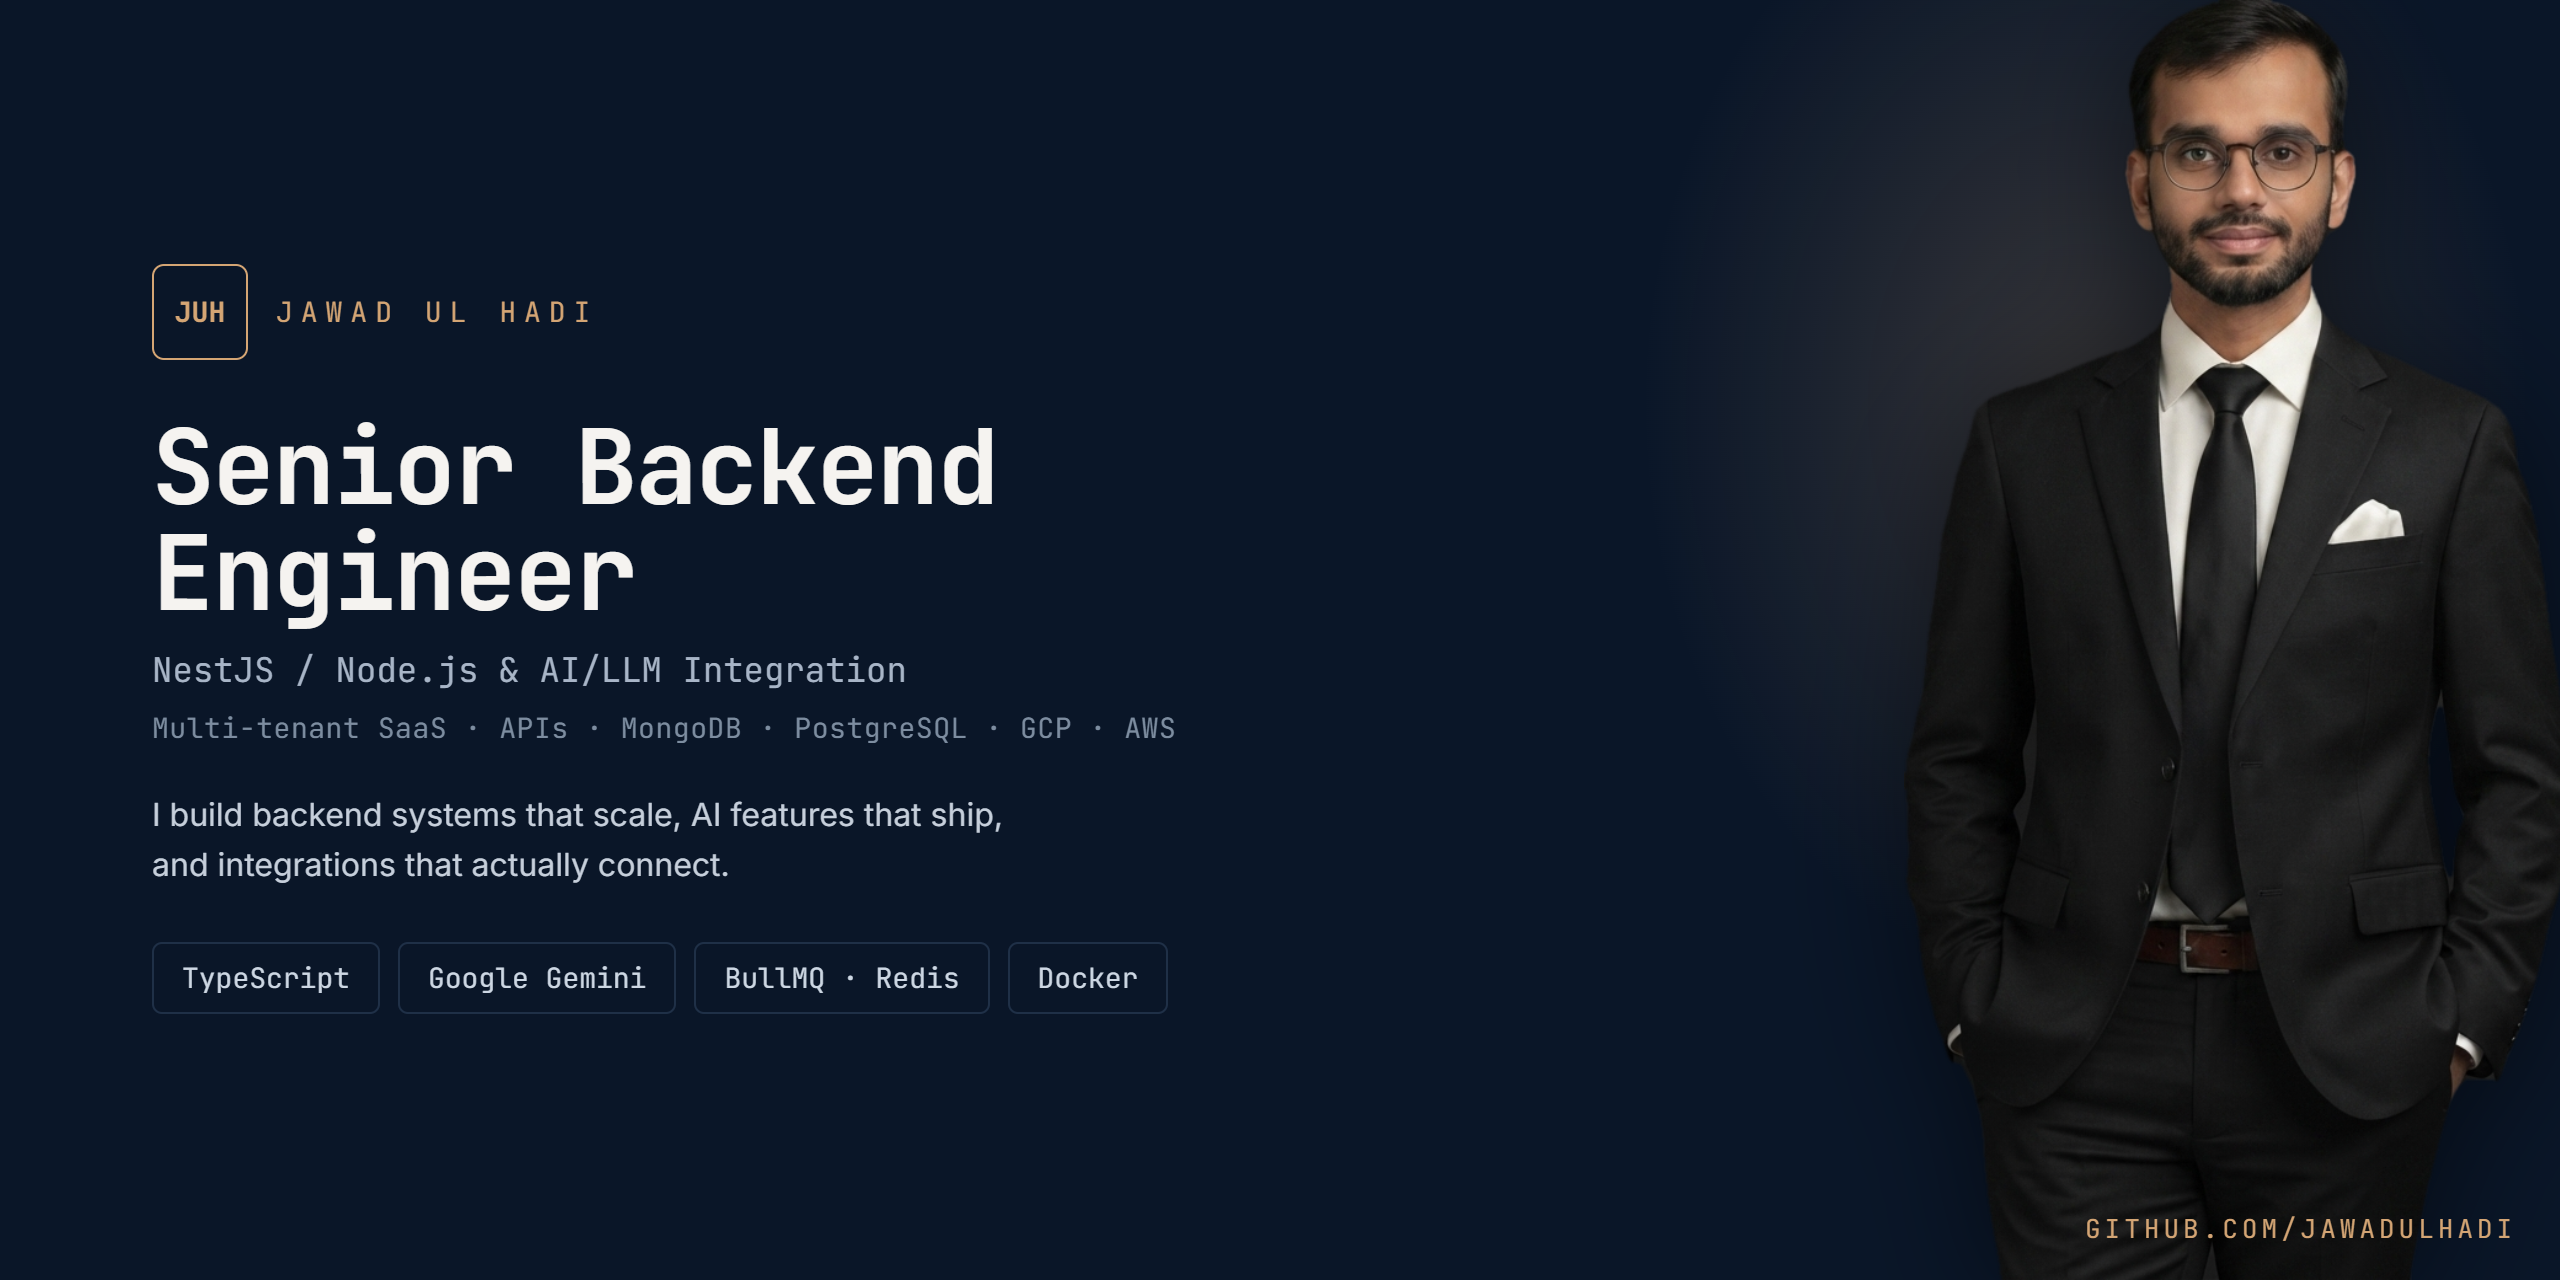
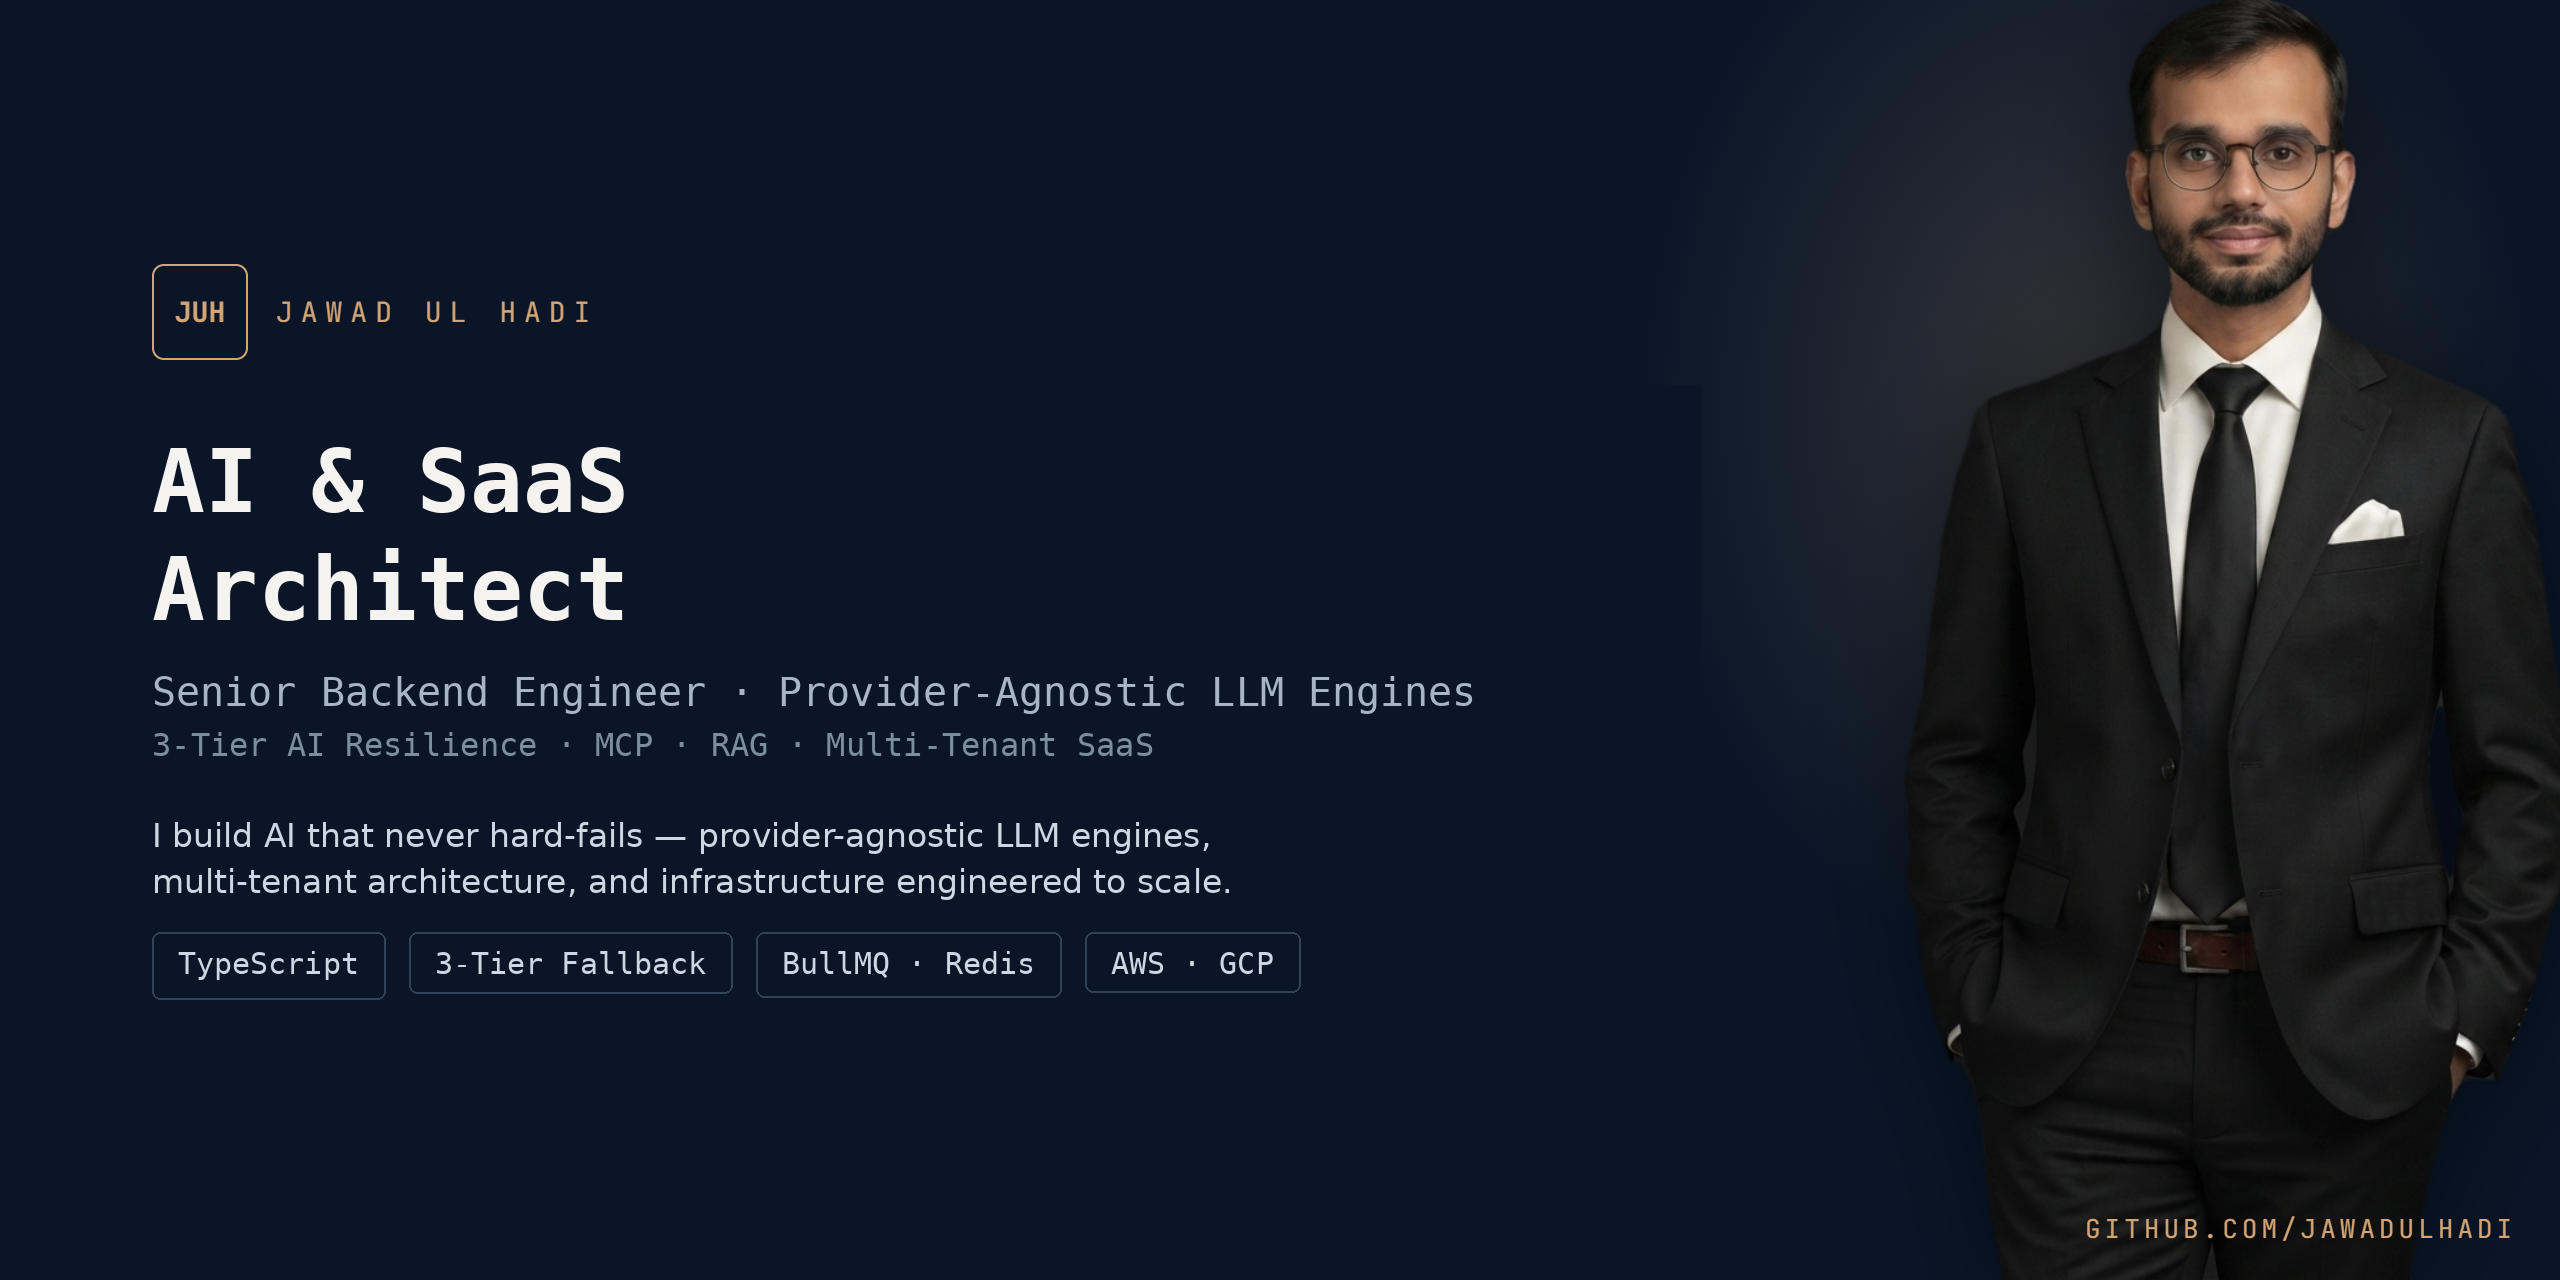
Update README.md for Jawad_Ul_Hadi's GitHub ProfileUpdate README.md for Jawad_Ul_Hadi's GitHub Profile``` Update README.md for Jawad_Ul_Hadi's GitHub Profile  - Enhanced content for better clarity and engagement. - Added relevant project descriptors and skills. - Authored by: Jawad ul Hadi ``` ```ma

Changed region(s): [[0.0625, 0.3125, 0.5625, 0.5938], [0.0625, 0.625, 0.5, 0.7812]]

diff --git a/README.md b/README.md
@@ -6,7 +6,7 @@
   <picture>
     <source media="(prefers-color-scheme: dark)" srcset="./banners/repo-banner-dark.png">
     <source media="(prefers-color-scheme: light)" srcset="./banners/repo-banner-light.png">
-    <img src="./banners/repo-banner-light.png" alt="Jawad Ul Hadi — Senior Backend Engineer" width="100%" />
+    <img src="./banners/repo-banner-light.png" alt="Jawad Ul Hadi — AI & SaaS Architect" width="100%" />
   </picture>
 </p>
 
@@ -29,7 +29,7 @@
 
 ## About
 
-I build backend systems that scale, AI features that ship, and integrations that connect. With over 7 years of software engineering experience, I specialize in serverless architectures, high-performance databases, and multi-tenant SaaS platforms with strict per-tenant isolation, asynchronous processing, and AI integrations across multiple agents (OpenAI, Gemini, Anthropic) with deterministic rule-based fallbacks.
+I architect resilient, multi-tenant SaaS platforms where AI works as a reliable value multiplier, not a liability. My signature build is a provider-agnostic LLM engine — OpenAI, Gemini, and Anthropic behind one abstraction — backed by a 3-tier resilience ladder (Retry → RAG → Deterministic) that eliminates user-facing AI failures and cut integration surface area by 60%. On the data side, I've driven 90%+ p95 latency reductions on enterprise-scale HRMS and recruitment workloads.
 
 I translate business outcomes into technical implementations that drive growth.
 
@@ -37,45 +37,59 @@ I translate business outcomes into technical implementations that drive growth.
 
 ## Technology Stack
 
-### Languages & Frameworks
+**Backend & Languages**
 
-| Primary | Secondary | Utilities |
-| --------- | ----------- | ----------- |
-| TypeScript | Python | JavaScript |
-| Node.js | Django / DRF | FastAPI |
-| NestJS | | |
+![Node.js](https://img.shields.io/badge/Node.js-339933?style=flat-square&logo=nodedotjs&logoColor=white)
+![NestJS](https://img.shields.io/badge/NestJS-E0234E?style=flat-square&logo=nestjs&logoColor=white)
+![TypeScript](https://img.shields.io/badge/TypeScript-3178C6?style=flat-square&logo=typescript&logoColor=white)
+![Python](https://img.shields.io/badge/Python-3776AB?style=flat-square&logo=python&logoColor=white)
+![Django](https://img.shields.io/badge/Django-092E20?style=flat-square&logo=django&logoColor=white)
+![FastAPI](https://img.shields.io/badge/FastAPI-009688?style=flat-square&logo=fastapi&logoColor=white)
+![PHP](https://img.shields.io/badge/PHP-777BB4?style=flat-square&logo=php&logoColor=white)
+![Laravel](https://img.shields.io/badge/Laravel-FF2D20?style=flat-square&logo=laravel&logoColor=white)
 
-### Data & Search Solutions
+**AI & LLM Engineering**
 
-| Relational | NoSQL | Search & Cache |
-| ----------- | -------- | ----------- |
-| PostgreSQL | MongoDB / Mongoose | Redis |
-| MySQL | | MeiliSearch |
+![OpenAI](https://img.shields.io/badge/OpenAI-412991?style=flat-square&logo=openai&logoColor=white)
+![Google Gemini](https://img.shields.io/badge/Google_Gemini-8E75B2?style=flat-square&logo=googlegemini&logoColor=white)
+![Anthropic Claude](https://img.shields.io/badge/Anthropic_Claude-D97757?style=flat-square&logo=anthropic&logoColor=white)
+![LangChain](https://img.shields.io/badge/LangChain-1C3C3C?style=flat-square&logo=langchain&logoColor=white)
+![MCP](https://img.shields.io/badge/Model_Context_Protocol-2D2D2D?style=flat-square)
+![RAG](https://img.shields.io/badge/RAG_Pipelines-4B5563?style=flat-square)
+![Agentic AI](https://img.shields.io/badge/Agentic_AI-4B5563?style=flat-square)
+![Structured Output](https://img.shields.io/badge/Structured_Output-4B5563?style=flat-square)
+![3-Tier Fallback](https://img.shields.io/badge/3--Tier_Fallback-B9843F?style=flat-square)
 
-### AI & Machine Learning
+**Data & Search**
 
-| Core Platform | Capabilities | Integration |
-| --------------- | -------------- | ------------- |
-| OpenAI SDK | Structured Output | RAG Systems |
-| Google Gemini | Multi-modal Analysis | Rule-based Fallbacks |
-| Anthropic Claude | Document Processing | Vision APIs |
+![PostgreSQL](https://img.shields.io/badge/PostgreSQL-4169E1?style=flat-square&logo=postgresql&logoColor=white)
+![MongoDB](https://img.shields.io/badge/MongoDB-47A248?style=flat-square&logo=mongodb&logoColor=white)
+![MySQL](https://img.shields.io/badge/MySQL-4479A1?style=flat-square&logo=mysql&logoColor=white)
+![Redis](https://img.shields.io/badge/Redis-DC382D?style=flat-square&logo=redis&logoColor=white)
+![MeiliSearch](https://img.shields.io/badge/MeiliSearch-FF5CAA?style=flat-square&logo=meilisearch&logoColor=white)
 
-### Infrastructure & DevOps
+**Infrastructure & DevOps**
 
-| Async Processing | Cloud Platforms | Containerization | CI/CD |
-| ----------------- | ----------------- | ----------------- | ------- |
-| BullMQ | Google Cloud Platform | Docker | GitHub Actions |
-| Redis Queues | AWS (Lambda, API Gateway) | | |
-| Webhooks | | | |
-| n8n Automation | | | |
+![AWS Lambda](https://img.shields.io/badge/AWS_Lambda-FF9900?style=flat-square&logo=awslambda&logoColor=white)
+![Google Cloud](https://img.shields.io/badge/Google_Cloud-4285F4?style=flat-square&logo=googlecloud&logoColor=white)
+![Docker](https://img.shields.io/badge/Docker-2496ED?style=flat-square&logo=docker&logoColor=white)
+![GitHub Actions](https://img.shields.io/badge/GitHub_Actions-2088FF?style=flat-square&logo=githubactions&logoColor=white)
+![BullMQ](https://img.shields.io/badge/BullMQ-DC382D?style=flat-square)
+![n8n](https://img.shields.io/badge/n8n-EA4B71?style=flat-square&logo=n8n&logoColor=white)
 
-### Integrations & Security
+**Integrations & Security**
 
-| Payments & Communication | Data & Storage | Authentication | Architecture |
-| -------------------------- | ----------------- | ----------------- | -------------- |
-| Stripe | GCS | JWT / OAuth 2.0 | RBAC |
-| Twilio | Microsoft Graph | Tenant Isolation | API Design |
-| Postal SMTP | | Session Management | Multi-tenant Systems |
+![Stripe](https://img.shields.io/badge/Stripe-635BFF?style=flat-square&logo=stripe&logoColor=white)
+![Twilio](https://img.shields.io/badge/Twilio-F22F46?style=flat-square&logo=twilio&logoColor=white)
+![Microsoft Graph](https://img.shields.io/badge/Microsoft_Graph-0078D4?style=flat-square&logo=microsoft&logoColor=white)
+![JWT / OAuth 2.0](https://img.shields.io/badge/JWT_%2F_OAuth_2.0-000000?style=flat-square&logo=jsonwebtokens&logoColor=white)
+![Tenant Isolation](https://img.shields.io/badge/RBAC_%2F_Tenant_Isolation-4B5563?style=flat-square)
+
+**AI-Assisted Development**
+
+![Cursor](https://img.shields.io/badge/Cursor-1A1A1A?style=flat-square)
+![GitHub Copilot](https://img.shields.io/badge/GitHub_Copilot-000000?style=flat-square&logo=githubcopilot&logoColor=white)
+![Claude Code](https://img.shields.io/badge/Claude_Code-D97757?style=flat-square&logo=anthropic&logoColor=white)
 
 ---
 
@@ -83,30 +97,30 @@ I translate business outcomes into technical implementations that drive growth.
 
 **Qeloma Suite** — Seven production-grade capability demos showcasing enterprise AI integrations. Enterprise work (Talentnix ATS, APAC HRMS, iAgility, AgileiBrains) is in private, IP-protected repos under NDA. Architecture diagrams, live walkthroughs, and references available upon request.
 
-| Project | Capability |
-| --------- | ----------- |
-| [Qeloma Verdict](https://github.com/Qeloma/qeloma-verdict) | Tamper-evident decision engine with cryptographic audit trails for EU AI Act compliance |
-| [Qeloma OCR](https://github.com/Qeloma/qeloma-ocr) | Client-side OCR with per-word confidence scoring (Tesseract.js / Gemini Vision / hybrid) |
-| [Qeloma Lens Studio](https://github.com/Qeloma/qeloma_lens_studio) | AI-powered document analysis — summarize, extract, compare (Gemini + rule-based fallbacks) |
-| [Qeloma Voice Studio](https://github.com/Qeloma/qeloma_voice_studio) | Real-time voice analyst grounded in custom document corpus (Gemini Live API) |
-| [Qeloma Shift](https://github.com/Qeloma/qeloma_shift) | Semantic change-intelligence engine — meaning-level diffing and materiality scoring |
-| [Qeloma Cover Studio](https://github.com/Qeloma/qeloma-cover-studio) | Browser-based LinkedIn banner designer with optional Gemini-assisted generation |
-| [Room Booking](https://github.com/Qeloma/qeloma_room_booking_app) | Resource-management platform — meeting room scheduling and booking automation |
+| Project                                                              | Capability                                                                                 |
+| -------------------------------------------------------------------- | ------------------------------------------------------------------------------------------ |
+| [Qeloma Verdict](https://github.com/Qeloma/qeloma-verdict)           | Tamper-evident decision engine with cryptographic audit trails for EU AI Act compliance    |
+| [Qeloma OCR](https://github.com/Qeloma/qeloma-ocr)                   | Client-side OCR with per-word confidence scoring (Tesseract.js / Gemini Vision / hybrid)   |
+| [Qeloma Lens Studio](https://github.com/Qeloma/qeloma_lens_studio)   | AI-powered document analysis — summarize, extract, compare (Gemini + rule-based fallbacks) |
+| [Qeloma Voice Studio](https://github.com/Qeloma/qeloma_voice_studio) | Real-time voice analyst grounded in custom document corpus (Gemini Live API)               |
+| [Qeloma Shift](https://github.com/Qeloma/qeloma_shift)               | Semantic change-intelligence engine — meaning-level diffing and materiality scoring        |
+| [Qeloma Cover Studio](https://github.com/Qeloma/qeloma-cover-studio) | Browser-based LinkedIn banner designer with optional Gemini-assisted generation            |
+| [Room Booking](https://github.com/Qeloma/qeloma_room_booking_app)    | Resource-management platform — meeting room scheduling and booking automation              |
 
 ---
 
 ## 🎓 Professional Certifications & Credentials
 
-**26+ Certifications** across cloud platforms, AI/ML, and enterprise systems:
+**30+ Certifications** across cloud platforms, AI/ML, and enterprise systems:
 
-| Provider | Certifications |
-| ---------- | --- |
-| **Google Cloud** | Generative AI Fundamentals, Cloud Computing Foundations |
-| **IBM SkillsBuild** | AI Fundamentals, Cloud Computing, Data Analytics, Cybersecurity Fundamentals, Web Development, IT Fundamentals, Professional Skills |
-| **LinkedIn Learning** | AI Orchestration (LangChain), Chatbot Development with OpenAI, Agentic AI Architecture, Advanced Python, Database Design |
-| **Specialized** | Certified Django Developer (e-smartdata.org, 2025) |
+| Provider              | Certifications                                                                                                                      |
+| --------------------- | ----------------------------------------------------------------------------------------------------------------------------------- |
+| **Google Cloud**      | Generative AI Fundamentals, Cloud Computing Foundations                                                                             |
+| **IBM SkillsBuild**   | AI Fundamentals, Cloud Computing, Data Analytics, Cybersecurity Fundamentals, Web Development, IT Fundamentals, Professional Skills |
+| **LinkedIn Learning** | Agentic AI Architecture, Model Context Protocol (MCP), LLM Orchestration (LangChain/LlamaIndex), Chatbot Development with OpenAI    |
+| **Specialized**       | Certified Django Developer (e-smartdata.org, 2025)                                                                                  |
 
-➜ **[View Full Certification Gallery & Verification Links](./certifications.md)**
+➜ **[View Full Certification Gallery &amp; Verification Links](./certifications.md)**
 
 ---
 
